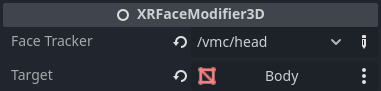
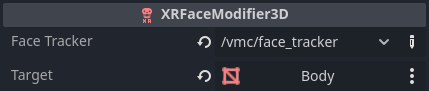
Update to handle SkeletonModifier3D / XRTracker changes (#6)
* Changes to work with SkeletonModifier3D and the root motion patch.
* Updates for SkeletonModifier3D/XRTracker changes.
* Update readme
* Cleanup gdlint issues.

diff --git a/README.md b/README.md
@@ -16,7 +16,9 @@ Official releases are tagged and can be found [here](https://github.com/Malcolmn
 The following branches are in active development:
 |  Branch   |  Description                  |  Godot version   |
 |-----------|-------------------------------|------------------|
-|  master   | Current development branch    |  Godot 4.3-dev4+ |
+|  master   | Current development branch    |  Godot 4.3-dev6+ |
+
+<sub>NOTE: This requires the [XR Trackers](https://github.com/godotengine/godot/pull/90645) PR which is in the Godot master branch, but no release has been made.</sub>
 
 ## Overview
 
@@ -54,7 +56,11 @@ The character model must be in Godot Humanoid format. This can be achieved in th
 
 ### Body Driving
 
-The body is driven using an [XRBodyModifier3D](https://docs.godotengine.org/en/latest/classes/class_xrbodymodifier3d.html) node configured to drive the skeleton of the character:
+The body is positioned using an [XRNode3D](https://docs.godotengine.org/en/latest/classes/class_xrnode3d.html) node configured to track the character body:
+
+![XRNode3D](/docs/xrnode3d.png)
+
+The body is posed using an [XRBodyModifier3D](https://docs.godotengine.org/en/latest/classes/class_xrbodymodifier3d.html) node skeleton modifier:
 
 ![XRBodyModifier3D](/docs/xrbodymodifier3d.png)
 

diff --git a/VERSIONS.md b/VERSIONS.md
@@ -1,3 +1,6 @@
+# 1.2.0
+- Updated for changes to XR Tracker names and hierarchy
+
 # 1.1.0
 - Set tracker "Root" under hips
 - Move avatars under body modifier
